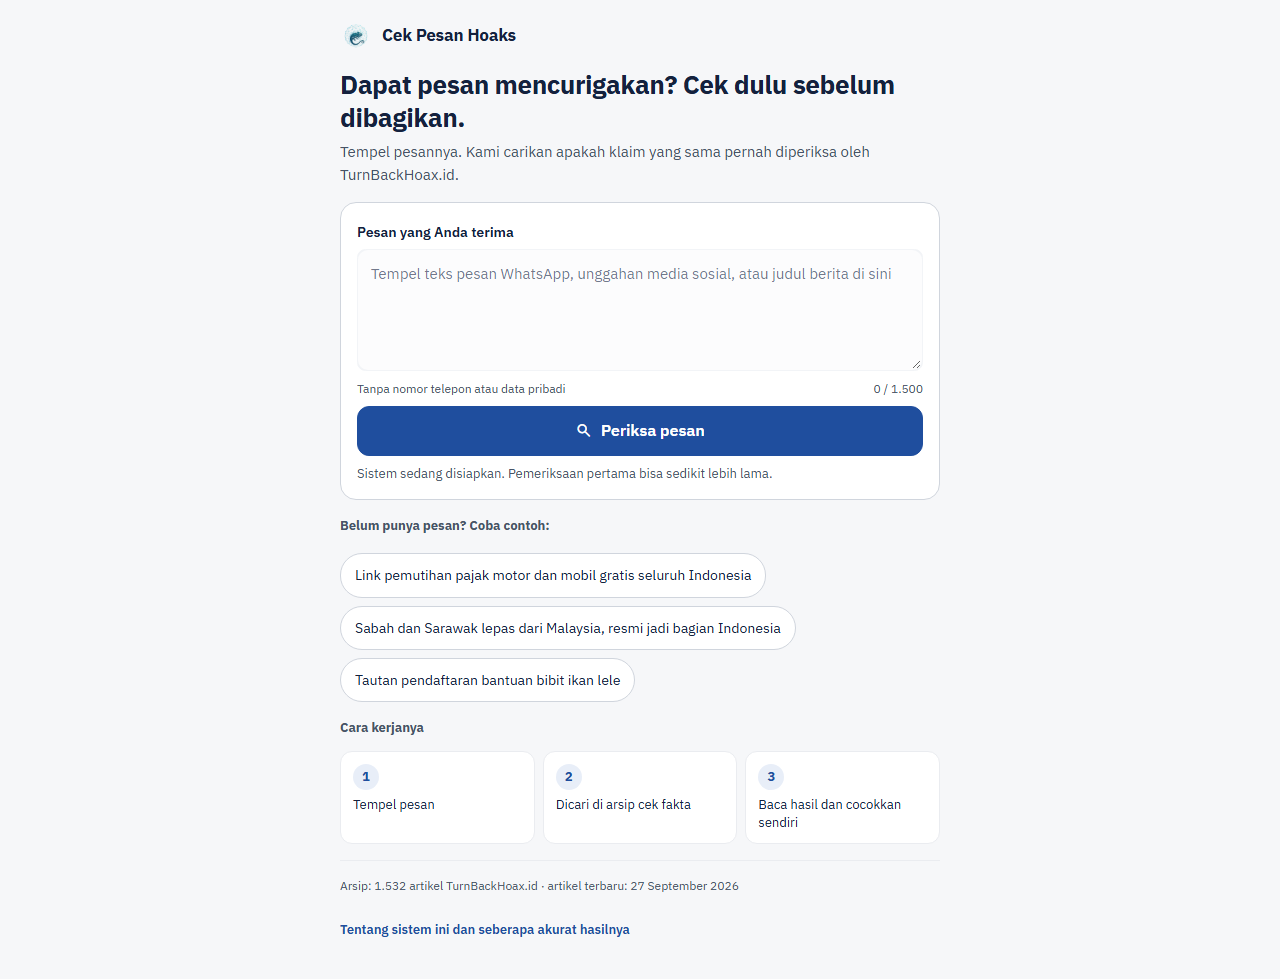
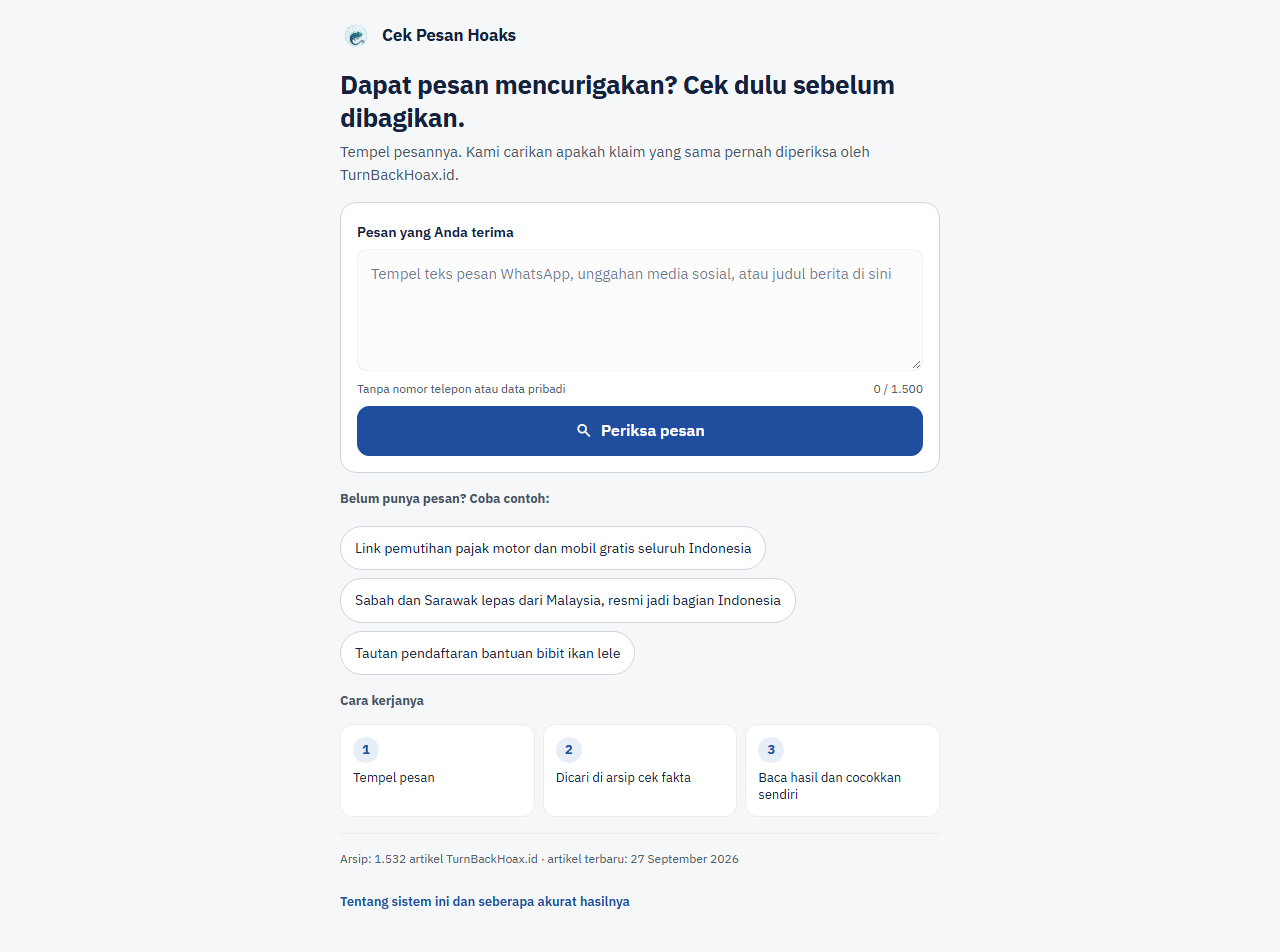
Tangkapan layar diambil ulang dari kode d47950d; skrip memuat bobot font IBM Plex secara eksplisit
Sebelumnya document.fonts.status bisa 'loaded' sebelum bobot yang dipakai diminta, sehingga foto
sesekali memakai font cadangan. Beranda kini dalam keadaan pemanasan selesai (tanpa catatan 'Sistem
sedang disiapkan'); enam tangkapan layar lain identik per byte dengan versi sebelumnya.

diff --git a/scripts/screenshots.py b/scripts/screenshots.py
@@ -23,8 +23,11 @@ RESULT_TIMEOUT_MS = 240_000  # pemeriksaan pertama memuat model
 def _settle(page: Page) -> None:
     """Tunggu Streamlit selesai menggambar (tidak ada indikator 'running') dan font termuat."""
     page.wait_for_load_state("networkidle")
-    page.wait_for_function("document.fonts.status === 'loaded'")
     page.wait_for_selector('[data-testid="stApp"][data-test-script-state="notRunning"]', timeout=RESULT_TIMEOUT_MS)
+    # Font dimuat malas per bobot: `document.fonts.status` bisa sudah "loaded" sebelum bobot yang dipakai
+    # diminta, sehingga foto sesekali memakai font cadangan (terlihat 2026-10-23). Muat bobotnya eksplisit.
+    page.evaluate("""() => Promise.all(['400', '500', '600', '700'].map(
+        w => document.fonts.load(`${w} 16px "IBM Plex Sans"`))).then(() => document.fonts.ready)""")
     time.sleep(1.0)
 
 
